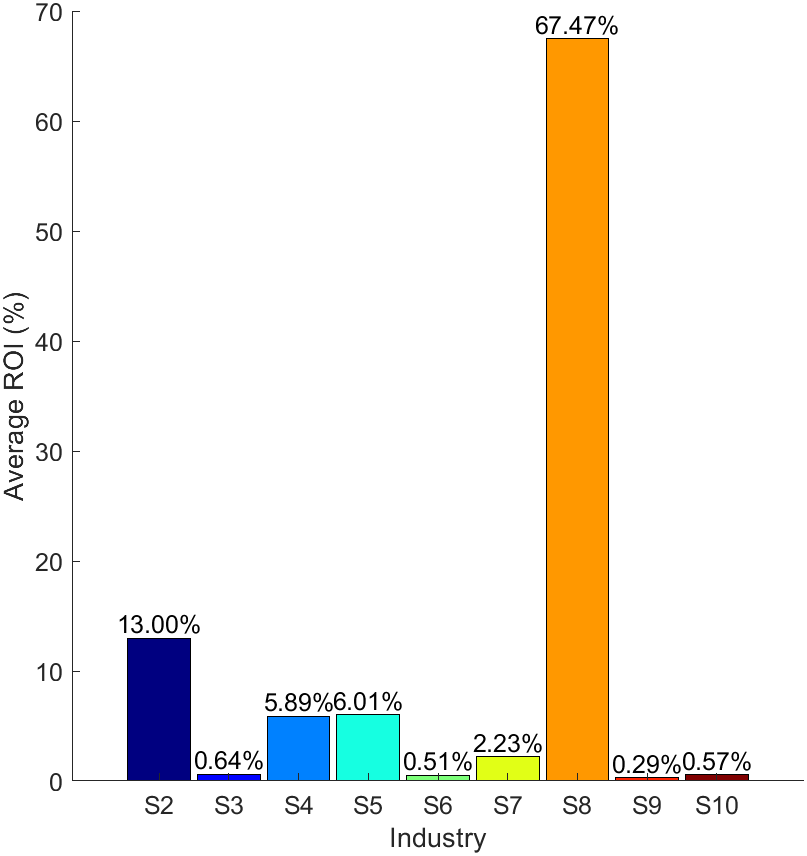
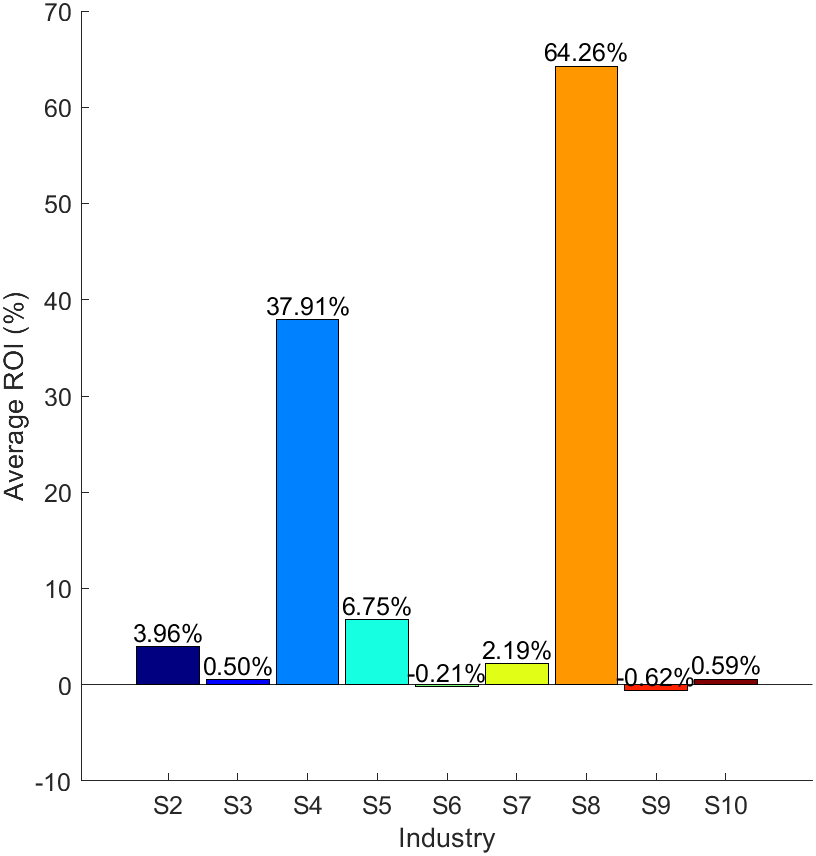
更新内容

diff --git a/code/q5/q5_2.m b/code/q5/q5_2.m
@@ -1,0 +1,121 @@
+clc; clear; close all;
+% 最优投资分配以及最高GDP
+%% 导入初始数据
+% 工资增长率
+data_1 = readtable('../../data/行业年均工资及其增长率.xlsx', 'Sheet', 'Sheet3', 'VariableNamingRule', 'preserve');
+% 行业工资平均值
+data_2 = readtable('../../data/行业年均工资及其增长率.xlsx', 'Sheet', 'Sheet4', 'VariableNamingRule', 'preserve');
+% 行业就业人口
+data_3 = readtable('../../data/近十年就业人口数据.xlsx', 'Sheet', 'Sheet2', 'VariableNamingRule', 'preserve');
+% 行业投资值
+data_investment = readtable('../../data/近二十年各产业投资情况数据表.xlsx', 'Sheet', 'Sheet2', 'VariableNamingRule', 'preserve');
+data_GDPs = readtable('../../data/近二十年各行业生产总值数据-en.xlsx', 'Sheet','Sheet1', 'VariableNamingRule', 'preserve');
+format long
+
+disp(data_1);
+disp(data_2);
+disp(data_3);
+disp(data_investment);
+disp(data_GDPs);
+
+%% 数据处理
+
+avg_investment = sum(data_investment.SUM) ./ 21;
+max_investment = max(data_investment.SUM);
+
+data_investment(1:10, :) = [];
+data_year = data_investment(:, "Year");
+% 删除年份
+data_investment(:, "Year") = [];
+data_GDPs(:, "Years") = [];
+% 删除部分投资、GDP年份
+data_GDPs(1:10, :) = [];
+data_investment(:, 1) = [];
+data_GDPs(:, "S1") = [];
+
+
+% 删除多余列
+data_2(:, 'AVG') = [];
+data_3(:, 'AVG_People') = [];
+
+% 删除年份
+data_3(:, 1) = [];
+data_2(:, 1) = [];
+data_1(:, 1) = [];
+%% 数据展示
+disp('行业投资总值');
+head(data_investment, 10);
+disp('行业GDP');
+head(data_GDPs, 10);
+disp('工资增长率');
+head(data_1, 10);
+disp('行业工资平均值');
+head(data_2, 10);
+disp('行业就业人口');
+head(data_3, 10);
+%% 数据计算
+% 转换表格为矩阵形式
+% investment_matrix = table2array(data_investment(:, 2:end));
+% gdp_matrix = table2array(data_GDPs(:, 2:end));
+% employment_matrix = table2array(data_employment(:, 2:end));
+% wage_growth_matrix = table2array(data_wage_growth(:, 2:end));
+
+data_GDPs = table2array(data_GDPs(:, 2:end));
+data_investment = table2array(data_investment(:,  2:end));
+data_3 = table2array(data_3(:, 2:end));
+data_1 = table2array(data_1(:, 2:end));
+
+% 计算增长率
+gdp_growth = diff(data_GDPs);                % GDP增长率
+investment_growth = diff(data_investment);  % 投资增长率
+employment_growth = diff(data_3);  % 就业增长率
+wage_growth = data_1;       % 工资增长率
+
+% 计算弹性和回报率
+investment_return_rate = gdp_growth ./ investment_growth;  % 投资回报率
+employment_elasticity = employment_growth ./ investment_growth; % 就业弹性
+wage_elasticity = wage_growth ./ investment_growth;       % 工资弹性
+
+%% 数据展示
+disp('投资回报率:');
+disp(investment_return_rate);
+disp('就业弹性:');
+disp(employment_elasticity);
+disp('工资弹性:');
+disp(wage_elasticity);
+
+%% 构建优化模型
+% 投资预算和约束条件
+I_total = 10000; % 总投资预算
+I_min = 10;      % 每个行业最低投资金额
+n = size(investment_return_rate, 2); % 行业数量
+
+% 目标函数权重
+w1 = 0.5; % GDP权重
+w2 = 0.3; % 就业权重
+w3 = 0.2; % 工资权重
+
+% 目标函数系数
+f = -(w1 * mean(investment_return_rate, 1) + ...
+      w2 * mean(employment_elasticity, 1) + ...
+      w3 * mean(wage_elasticity, 1));
+
+% 约束条件
+A = ones(1, n); % 总投资限制
+b = I_total;    % 总投资预算
+lb = ones(n, 1) * I_min; % 每个行业最小投资
+ub = []; % 无上界限制
+
+% 初始投资分配
+I0 = ones(n, 1) * (I_total / n); % 均匀分配初始投资
+
+% 求解优化问题
+options = optimoptions('fmincon', 'Algorithm', 'sqp', 'Display', 'iter', ...
+    'MaxIterations', 500, 'MaxFunctionEvaluations', 1000);
+[I_optimal, Z_max] = fmincon(@(I) f * I, I0, A, b, [], [], lb, ub, [], options);
+
+%% 结果展示
+disp('最优投资分配:');
+disp(I_optimal);
+disp('优化后的目标函数值:');
+disp(-Z_max);

diff --git a/code/q4/q41.m b/code/q4/q41.m
@@ -96,7 +96,7 @@ colors = [
     153/255 135/255 206/255  % #9987ce
 ];
 
-%% 绘制针状图1
+%% 绘制针状图1（就业弹性-工资弹性图）
 X = 1:length(data_investment.Properties.VariableNames);
 
 % 定义因变量
@@ -165,7 +165,7 @@ X = 1:length(data_investment.Properties.VariableNames);
 Y1 = combined_elasticity;             % 综合弹性
 Y2 = investment_allocation;           % 投资分配
 
-% 设置颜色（可以手动调整）
+% 设置颜色
 leftColor = [63/255 178/255 238/255];  % 左侧颜色
 rightColor = [249/255 149/255 136/255]; % 右侧颜色
 
@@ -231,28 +231,43 @@ selected_colors = colors(selected_indices, :);
 labels = arrayfun(@(x) sprintf('%s: %.2f%%', data_investment.Properties.VariableNames{selected_indices(x)}, selected_investment_proportion(x) * 100), 1:length(selected_investment_proportion), 'UniformOutput', false);
 
 % 绘制饼图
-pie(selected_investment_proportion, labels);
+pie_handle = pie(selected_investment_proportion, labels);
 
 % 设置颜色
-colormap(selected_colors);
-
-
-% 添加图例
-hLegend = legend(data_investment.Properties.VariableNames(selected_indices), ...
-                 'Position', [0.85 0.15 0.1 0.3]);
-hLegend.ItemTokenSize = [5 5];
-legend('boxoff');
-
-% 字体和字号
-th = findobj(gca, 'Type', 'text');
-set(th, 'FontName', 'Arial', 'FontSize', 11)
-set(hLegend, 'FontName', 'Arial', 'FontSize', 9)
-% set(hTitle, 'FontSize', 12, 'FontWeight', 'bold')
-
-% 在饼图内显示投资金额
-investment_labels = arrayfun(@(x) sprintf('%.2f Billion Yuan', selected_investment_proportion(x) * total_investment), 1:length(selected_investment_proportion), 'UniformOutput', false);
-textHandles = findobj(gca, 'Type', 'text');
-for i = 1:length(investment_labels)
-    textHandles(i).String = investment_labels{i};
+for i = 1:2:length(pie_handle)
+    pie_handle(i).FaceColor = selected_colors(ceil(i / 2), :); % 使用统一的颜色映射
 end
 
+% 删除饼图中的所有文本标签
+th = findobj(gca, 'Type', 'text');
+delete(th); % 删除标签文本
+
+% 在饼图旁边绘制标签和比例数据
+legend_labels = strcat(data_investment.Properties.VariableNames(selected_indices));
+hLegend = legend(pie_handle(1:2:end), legend_labels, 'Location', 'eastoutside'); % 标签位于图例外侧
+
+% 细节优化：去除图例的边框
+legend('boxoff');
+
+% 设置图表标题
+% set(gca, 'FontName', 'Arial', 'FontSize', 10);
+
+% 设置图例字体和样式
+hLegend.ItemTokenSize = [10, 10]; % 调整图例标记大小
+set(hLegend, 'FontName', 'Arial', 'FontSize', 12); % 设置图例字体
+
+% 在饼图外显示比例
+for i = 1:length(selected_investment_proportion)
+    % 计算每个扇区的中心角度
+    angle = (i - 1) * 360 / length(selected_investment_proportion) + 180 / length(selected_investment_proportion);
+    % 将角度转换为弧度
+    rad = deg2rad(angle);
+    % 计算文本标签的位置
+    x = 1.2 * cos(rad);
+    y = 1.2 * sin(rad);
+    % 添加文本标签
+    text(x, y, sprintf('%.2f%%', selected_investment_proportion(i) * 100), 'HorizontalAlignment', 'center', 'FontSize', 12, 'FontName', 'Arial');
+end
+
+% 背景颜色
+set(gcf, 'Color', [1 1 1]);

diff --git a/code/q5/q5_1.m b/code/q5/q5_1.m
@@ -1,0 +1,90 @@
+clc; clear; close all;
+% 最优投资分配以及最高GDP
+%% 导入初始数据
+% 工资增长率
+data_1 = readtable('../../data/行业年均工资及其增长率.xlsx', 'Sheet', 'Sheet3', 'VariableNamingRule', 'preserve');
+% 行业工资平均值
+data_2 = readtable('../../data/行业年均工资及其增长率.xlsx', 'Sheet', 'Sheet4', 'VariableNamingRule', 'preserve');
+% 行业就业人口
+data_3 = readtable('../../data/近十年就业人口数据.xlsx', 'Sheet', 'Sheet2', 'VariableNamingRule', 'preserve');
+% 行业投资值
+data_investment = readtable('../../data/近二十年各产业投资情况数据表.xlsx', 'Sheet', 'Sheet2', 'VariableNamingRule', 'preserve');
+data_GDPs = readtable('../../data/近二十年各行业生产总值数据-en.xlsx', 'Sheet','Sheet1', 'VariableNamingRule', 'preserve');
+format long
+
+disp(data_1);
+disp(data_2);
+disp(data_3);
+disp(data_investment);
+disp(data_GDPs);
+
+%% 数据处理
+
+avg_investment = sum(data_investment.SUM) ./ 21;
+max_investment = max(data_investment.SUM);
+
+data_investment(1:11, :) = [];
+data_year = data_investment(:, "Year");
+% 删除年份
+data_investment(:, "Year") = [];
+data_GDPs(:, "Years") = [];
+% 删除部分投资、GDP年份
+data_GDPs(1:11, :) = [];
+data_investment(:, 1) = [];
+data_GDPs(:, "S1") = [];
+
+data_3(1, :) = [];
+data_2(1, :) = [];
+
+% 删除多余列
+data_2(:, 'AVG') = [];
+data_3(:, 'AVG-People') = [];
+
+% 删除年份
+data_3(:, 1) = [];
+data_2(:, 1) = [];
+data_1(:, 1) = [];
+%% 数据展示
+disp('行业投资总值');
+head(data_investment, 10);
+disp('行业GDP');
+head(data_GDPs, 10);
+disp('工资增长率');
+head(data_1, 10);
+disp('行业工资平均值');
+head(data_2, 10);
+disp('行业就业人口');
+head(data_3, 10);
+
+
+%% 计算投资回报率、就业弹性和工资弹性
+gdp_growth = diff(table2array(data_GDPs));
+investment_growth = diff(table2array(data_investment));
+employment_growth = diff(table2array(data_3));
+wage_growth = diff(table2array(data_1));
+
+investment_return_rate = gdp_growth ./ investment_growth;
+employment_elasticity = employment_growth ./ investment_growth;
+wage_elasticity = wage_growth ./ investment_growth;
+
+%% 计算投资回报率、就业弹性和工资弹性
+gdp_growth = diff(table2array(data_GDPs));
+investment_growth = diff(table2array(data_investment));
+employment_growth = diff(table2array(data_3));
+wage_growth = diff(table2array(data_1));
+
+investment_return_rate = gdp_growth ./ investment_growth;
+employment_elasticity = employment_growth ./ investment_growth;
+wage_elasticity = wage_growth ./ investment_growth;
+
+%% 计算投资回报率、就业弹性和工资弹性
+gdp_growth = diff(table2array(data_GDPs));
+investment_growth = diff(table2array(data_investment));
+employment_growth = diff(table2array(data_3));
+wage_growth = diff(table2array(data_1));
+
+investment_return_rate = gdp_growth ./ investment_growth;
+employment_elasticity = employment_growth ./ investment_growth;
+wage_elasticity = wage_growth ./ investment_growth;
+
+%% 构建线性规划问题
